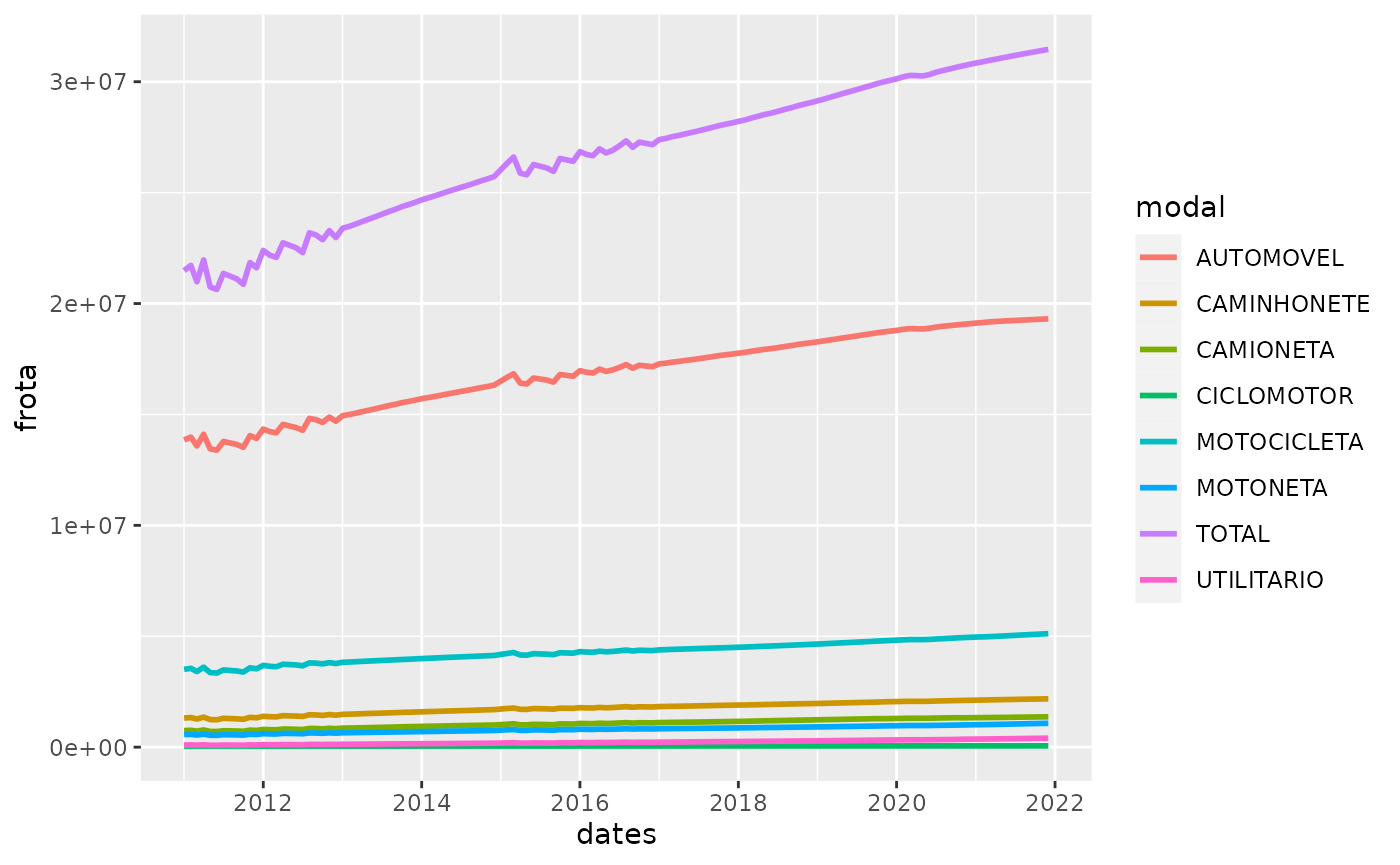
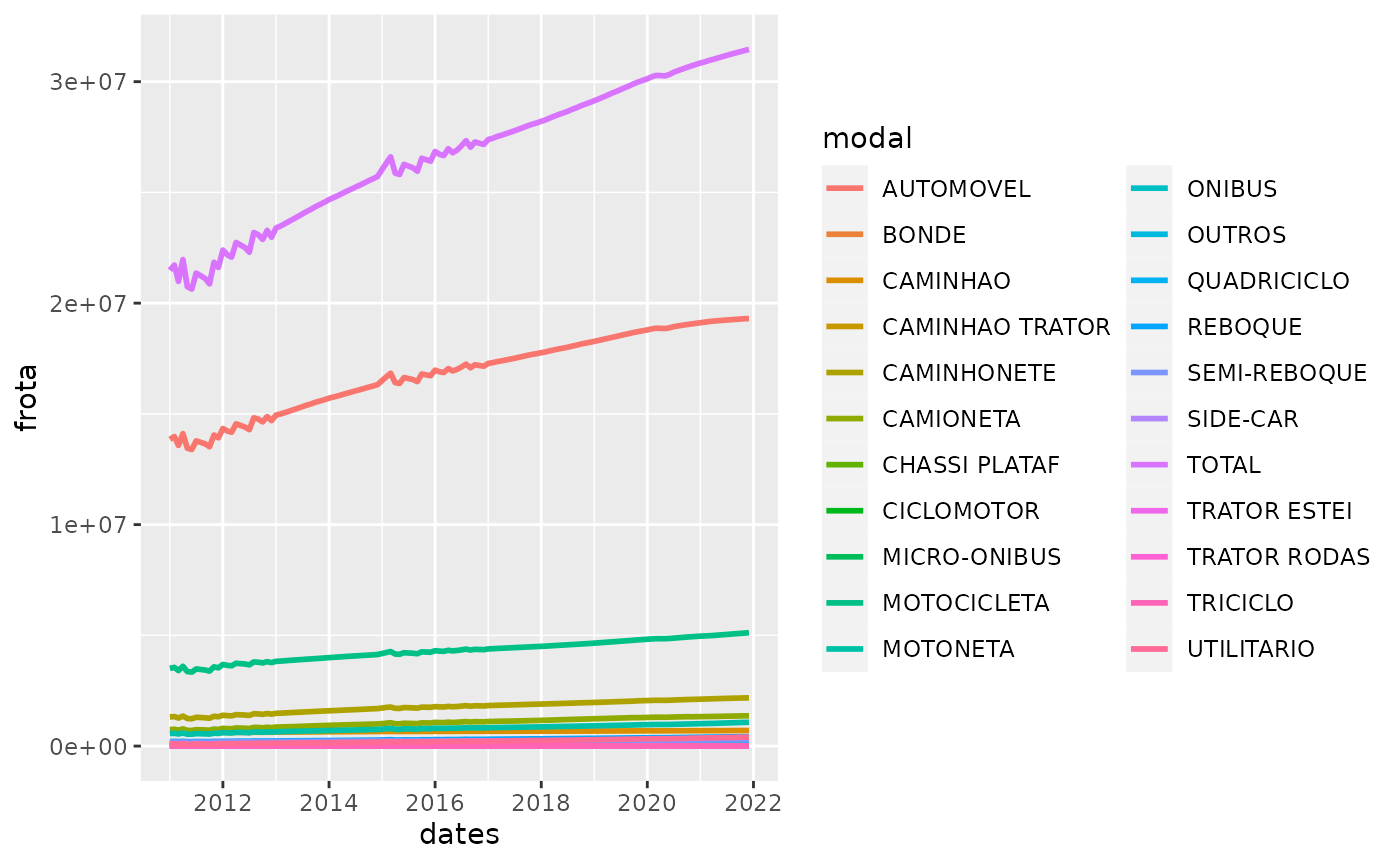
Deploying to gh-pages from @ jotasaraiva/fleetbr@af62b1231924bef9624a7627e6caa42e5f8dad41 🚀

diff --git a/index.html b/index.html
@@ -5,10 +5,9 @@
 <meta charset="utf-8">
 <meta http-equiv="X-UA-Compatible" content="IE=edge">
 <meta name="viewport" content="width=device-width, initial-scale=1, shrink-to-fit=no">
-<meta name="description" content="The package is long format dataset from the road fleet
-    data provided by the open data sources of the Brazilian Ministry of
-    Transport.">
-<title>Brazilian Road Fleet Dataset • fleetbr</title>
+<meta name="description" content="The package includes a dataset from the road vehicle data provided 
+    by the Brazilian Ministry of Transport.">
+<title>Brazilian Vehicle Fleet Dataset • fleetbr</title>
 <!-- favicons --><link rel="icon" type="image/png" sizes="16x16" href="favicon-16x16.png">
 <link rel="icon" type="image/png" sizes="32x32" href="favicon-32x32.png">
 <link rel="apple-touch-icon" type="image/png" sizes="180x180" href="apple-touch-icon.png">
@@ -19,10 +18,9 @@
 <link href="deps/bootstrap-5.3.1/bootstrap.min.css" rel="stylesheet">
 <script src="deps/bootstrap-5.3.1/bootstrap.bundle.min.js"></script><!-- Font Awesome icons --><link rel="stylesheet" href="https://cdnjs.cloudflare.com/ajax/libs/font-awesome/5.12.1/css/all.min.css" integrity="sha256-mmgLkCYLUQbXn0B1SRqzHar6dCnv9oZFPEC1g1cwlkk=" crossorigin="anonymous">
 <link rel="stylesheet" href="https://cdnjs.cloudflare.com/ajax/libs/font-awesome/5.12.1/css/v4-shims.min.css" integrity="sha256-wZjR52fzng1pJHwx4aV2AO3yyTOXrcDW7jBpJtTwVxw=" crossorigin="anonymous">
-<!-- bootstrap-toc --><script src="https://cdn.jsdelivr.net/gh/afeld/bootstrap-toc@v1.0.1/dist/bootstrap-toc.min.js" integrity="sha256-4veVQbu7//Lk5TSmc7YV48MxtMy98e26cf5MrgZYnwo=" crossorigin="anonymous"></script><!-- headroom.js --><script src="https://cdnjs.cloudflare.com/ajax/libs/headroom/0.11.0/headroom.min.js" integrity="sha256-AsUX4SJE1+yuDu5+mAVzJbuYNPHj/WroHuZ8Ir/CkE0=" crossorigin="anonymous"></script><script src="https://cdnjs.cloudflare.com/ajax/libs/headroom/0.11.0/jQuery.headroom.min.js" integrity="sha256-ZX/yNShbjqsohH1k95liqY9Gd8uOiE1S4vZc+9KQ1K4=" crossorigin="anonymous"></script><!-- clipboard.js --><script src="https://cdnjs.cloudflare.com/ajax/libs/clipboard.js/2.0.6/clipboard.min.js" integrity="sha256-inc5kl9MA1hkeYUt+EC3BhlIgyp/2jDIyBLS6k3UxPI=" crossorigin="anonymous"></script><!-- search --><script src="https://cdnjs.cloudflare.com/ajax/libs/fuse.js/6.4.6/fuse.js" integrity="sha512-zv6Ywkjyktsohkbp9bb45V6tEMoWhzFzXis+LrMehmJZZSys19Yxf1dopHx7WzIKxr5tK2dVcYmaCk2uqdjF4A==" crossorigin="anonymous"></script><script src="https://cdnjs.cloudflare.com/ajax/libs/autocomplete.js/0.38.0/autocomplete.jquery.min.js" integrity="sha512-GU9ayf+66Xx2TmpxqJpliWbT5PiGYxpaG8rfnBEk1LL8l1KGkRShhngwdXK1UgqhAzWpZHSiYPc09/NwDQIGyg==" crossorigin="anonymous"></script><script src="https://cdnjs.cloudflare.com/ajax/libs/mark.js/8.11.1/mark.min.js" integrity="sha512-5CYOlHXGh6QpOFA/TeTylKLWfB3ftPsde7AnmhuitiTX4K5SqCLBeKro6sPS8ilsz1Q4NRx3v8Ko2IBiszzdww==" crossorigin="anonymous"></script><!-- pkgdown --><script src="pkgdown.js"></script><meta property="og:title" content="Brazilian Road Fleet Dataset">
-<meta property="og:description" content="The package is long format dataset from the road fleet
-    data provided by the open data sources of the Brazilian Ministry of
-    Transport.">
+<!-- bootstrap-toc --><script src="https://cdn.jsdelivr.net/gh/afeld/bootstrap-toc@v1.0.1/dist/bootstrap-toc.min.js" integrity="sha256-4veVQbu7//Lk5TSmc7YV48MxtMy98e26cf5MrgZYnwo=" crossorigin="anonymous"></script><!-- headroom.js --><script src="https://cdnjs.cloudflare.com/ajax/libs/headroom/0.11.0/headroom.min.js" integrity="sha256-AsUX4SJE1+yuDu5+mAVzJbuYNPHj/WroHuZ8Ir/CkE0=" crossorigin="anonymous"></script><script src="https://cdnjs.cloudflare.com/ajax/libs/headroom/0.11.0/jQuery.headroom.min.js" integrity="sha256-ZX/yNShbjqsohH1k95liqY9Gd8uOiE1S4vZc+9KQ1K4=" crossorigin="anonymous"></script><!-- clipboard.js --><script src="https://cdnjs.cloudflare.com/ajax/libs/clipboard.js/2.0.6/clipboard.min.js" integrity="sha256-inc5kl9MA1hkeYUt+EC3BhlIgyp/2jDIyBLS6k3UxPI=" crossorigin="anonymous"></script><!-- search --><script src="https://cdnjs.cloudflare.com/ajax/libs/fuse.js/6.4.6/fuse.js" integrity="sha512-zv6Ywkjyktsohkbp9bb45V6tEMoWhzFzXis+LrMehmJZZSys19Yxf1dopHx7WzIKxr5tK2dVcYmaCk2uqdjF4A==" crossorigin="anonymous"></script><script src="https://cdnjs.cloudflare.com/ajax/libs/autocomplete.js/0.38.0/autocomplete.jquery.min.js" integrity="sha512-GU9ayf+66Xx2TmpxqJpliWbT5PiGYxpaG8rfnBEk1LL8l1KGkRShhngwdXK1UgqhAzWpZHSiYPc09/NwDQIGyg==" crossorigin="anonymous"></script><script src="https://cdnjs.cloudflare.com/ajax/libs/mark.js/8.11.1/mark.min.js" integrity="sha512-5CYOlHXGh6QpOFA/TeTylKLWfB3ftPsde7AnmhuitiTX4K5SqCLBeKro6sPS8ilsz1Q4NRx3v8Ko2IBiszzdww==" crossorigin="anonymous"></script><!-- pkgdown --><script src="pkgdown.js"></script><meta property="og:title" content="Brazilian Vehicle Fleet Dataset">
+<meta property="og:description" content="The package includes a dataset from the road vehicle data provided 
+    by the Brazilian Ministry of Transport.">
 <meta property="og:image" content="https://jotasaraiva.github.io/fleetbr/logo.png">
 <!-- mathjax --><script src="https://cdnjs.cloudflare.com/ajax/libs/mathjax/2.7.5/MathJax.js" integrity="sha256-nvJJv9wWKEm88qvoQl9ekL2J+k/RWIsaSScxxlsrv8k=" crossorigin="anonymous"></script><script src="https://cdnjs.cloudflare.com/ajax/libs/mathjax/2.7.5/config/TeX-AMS-MML_HTMLorMML.js" integrity="sha256-84DKXVJXs0/F8OTMzX4UR909+jtl4G7SPypPavF+GfA=" crossorigin="anonymous"></script><!--[if lt IE 9]>
 <script src="https://oss.maxcdn.com/html5shiv/3.7.3/html5shiv.min.js"></script>
@@ -37,7 +35,7 @@
     
     <a class="navbar-brand me-2" href="index.html">fleetbr</a>
 
-    <small class="nav-text text-muted me-auto" data-bs-toggle="tooltip" data-bs-placement="bottom" title="">0.1.1</small>
+    <small class="nav-text text-muted me-auto" data-bs-toggle="tooltip" data-bs-placement="bottom" title="">0.1.2</small>
 
     
     <button class="navbar-toggler" type="button" data-bs-toggle="collapse" data-bs-target="#navbar" aria-controls="navbar" aria-expanded="false" aria-label="Toggle navigation">

diff --git a/authors.html b/authors.html
@@ -10,7 +10,7 @@
     
     <a class="navbar-brand me-2" href="index.html">fleetbr</a>
 
-    <small class="nav-text text-muted me-auto" data-bs-toggle="tooltip" data-bs-placement="bottom" title="">0.1.1</small>
+    <small class="nav-text text-muted me-auto" data-bs-toggle="tooltip" data-bs-placement="bottom" title="">0.1.2</small>
 
     
     <button class="navbar-toggler" type="button" data-bs-toggle="collapse" data-bs-target="#navbar" aria-controls="navbar" aria-expanded="false" aria-label="Toggle navigation">
@@ -67,15 +67,15 @@
       <h2 id="citation">Citation</h2>
       <p><small class="dont-index">Source: <a href="https://github.com/jotasaraiva/fleetbr/blob/HEAD/DESCRIPTION" class="external-link"><code>DESCRIPTION</code></a></small></p>
 
-      <p>Saraiva JPM, Santos PAB (2023).
-<em>fleetbr: Brazilian Road Fleet Dataset</em>.
-R package version 0.1.1, https://github.com/jotasaraiva/fleetbr, <a href="https://jotasaraiva.github.io/fleetbr/">https://jotasaraiva.github.io/fleetbr/</a>. 
+      <p>Saraiva JPM, Santos PAB (2024).
+<em>fleetbr: Brazilian Vehicle Fleet Dataset</em>.
+R package version 0.1.2, https://github.com/jotasaraiva/fleetbr, <a href="https://jotasaraiva.github.io/fleetbr/">https://jotasaraiva.github.io/fleetbr/</a>. 
 </p>
       <pre>@Manual{,
-  title = {fleetbr: Brazilian Road Fleet Dataset},
+  title = {fleetbr: Brazilian Vehicle Fleet Dataset},
   author = {João Pedro Melani Saraiva and Pedro Augusto Borges Santos},
-  year = {2023},
-  note = {R package version 0.1.1, https://github.com/jotasaraiva/fleetbr},
+  year = {2024},
+  note = {R package version 0.1.2, https://github.com/jotasaraiva/fleetbr},
   url = {https://jotasaraiva.github.io/fleetbr/},
 }</pre>
     </div>

diff --git a/news/index.html b/news/index.html
@@ -10,7 +10,7 @@
     
     <a class="navbar-brand me-2" href="../index.html">fleetbr</a>
 
-    <small class="nav-text text-muted me-auto" data-bs-toggle="tooltip" data-bs-placement="bottom" title="">0.1.1</small>
+    <small class="nav-text text-muted me-auto" data-bs-toggle="tooltip" data-bs-placement="bottom" title="">0.1.2</small>
 
     
     <button class="navbar-toggler" type="button" data-bs-toggle="collapse" data-bs-target="#navbar" aria-controls="navbar" aria-expanded="false" aria-label="Toggle navigation">
@@ -47,6 +47,12 @@
       <small>Source: <a href="https://github.com/jotasaraiva/fleetbr/blob/HEAD/NEWS.md" class="external-link"><code>NEWS.md</code></a></small>
     </div>
 
+    <div class="section level2">
+<h2 class="pkg-version" data-toc-text="0.1.2" id="fleetbr-012">fleetbr 0.1.2<a class="anchor" aria-label="anchor" href="#fleetbr-012"></a></h2>
+<ul><li><p>Fixes DESCRIPTION (<a href="https://github.com/jotasaraiva/fleetbr/issues/7" class="external-link">#7</a>)</p></li>
+<li><p>Fix <code>data-raw/</code> (<a href="https://github.com/jotasaraiva/fleetbr/issues/6" class="external-link">#6</a>)</p></li>
+<li><p>Adds all types of vehicles (<a href="https://github.com/jotasaraiva/fleetbr/issues/4" class="external-link">#4</a>)</p></li>
+</ul></div>
     <div class="section level2">
 <h2 class="pkg-version" data-toc-text="0.1.1" id="fleetbr-011">fleetbr 0.1.1<a class="anchor" aria-label="anchor" href="#fleetbr-011"></a></h2>
 <ul><li><p>Fixes README (<a href="https://github.com/jotasaraiva/fleetbr/issues/2" class="external-link">#2</a>)</p></li>

diff --git a/reference/fleetbr.html b/reference/fleetbr.html
@@ -14,7 +14,7 @@ are encoded to Brazilian Portuguese."><meta property="og:image" content="https:/
     
     <a class="navbar-brand me-2" href="../index.html">fleetbr</a>
 
-    <small class="nav-text text-muted me-auto" data-bs-toggle="tooltip" data-bs-placement="bottom" title="">0.1.1</small>
+    <small class="nav-text text-muted me-auto" data-bs-toggle="tooltip" data-bs-placement="bottom" title="">0.1.2</small>
 
     
     <button class="navbar-toggler" type="button" data-bs-toggle="collapse" data-bs-target="#navbar" aria-controls="navbar" aria-expanded="false" aria-label="Toggle navigation">
@@ -70,7 +70,7 @@ are encoded to Brazilian Portuguese.</p>
 <h3 id="fleetbr"><code>fleetbr</code><a class="anchor" aria-label="anchor" href="#fleetbr"></a></h3>
 
 
-<p>A <code>tibble</code> data frame with 28,512 and 5 columns:</p><dl><dt>uf</dt>
+<p>A <code>tibble</code> data frame with 78,408 and 5 columns:</p><dl><dt>uf</dt>
 <dd><p>Federative Unit - Brazilian States Acronyms</p></dd>
 
 <dt>mes, ano</dt>

diff --git a/404.html b/404.html
@@ -31,7 +31,7 @@
     
     <a class="navbar-brand me-2" href="https://jotasaraiva.github.io/fleetbr/index.html">fleetbr</a>
 
-    <small class="nav-text text-muted me-auto" data-bs-toggle="tooltip" data-bs-placement="bottom" title="">0.1.1</small>
+    <small class="nav-text text-muted me-auto" data-bs-toggle="tooltip" data-bs-placement="bottom" title="">0.1.2</small>
 
     
     <button class="navbar-toggler" type="button" data-bs-toggle="collapse" data-bs-target="#navbar" aria-controls="navbar" aria-expanded="false" aria-label="Toggle navigation">

diff --git a/articles/fleetbr.html b/articles/fleetbr.html
@@ -33,7 +33,7 @@
     
     <a class="navbar-brand me-2" href="../index.html">fleetbr</a>
 
-    <small class="nav-text text-muted me-auto" data-bs-toggle="tooltip" data-bs-placement="bottom" title="">0.1.1</small>
+    <small class="nav-text text-muted me-auto" data-bs-toggle="tooltip" data-bs-placement="bottom" title="">0.1.2</small>
 
     
     <button class="navbar-toggler" type="button" data-bs-toggle="collapse" data-bs-target="#navbar" aria-controls="navbar" aria-expanded="false" aria-label="Toggle navigation">

diff --git a/articles/index.html b/articles/index.html
@@ -10,7 +10,7 @@
     
     <a class="navbar-brand me-2" href="../index.html">fleetbr</a>
 
-    <small class="nav-text text-muted me-auto" data-bs-toggle="tooltip" data-bs-placement="bottom" title="">0.1.1</small>
+    <small class="nav-text text-muted me-auto" data-bs-toggle="tooltip" data-bs-placement="bottom" title="">0.1.2</small>
 
     
     <button class="navbar-toggler" type="button" data-bs-toggle="collapse" data-bs-target="#navbar" aria-controls="navbar" aria-expanded="false" aria-label="Toggle navigation">

diff --git a/reference/index.html b/reference/index.html
@@ -10,7 +10,7 @@
     
     <a class="navbar-brand me-2" href="../index.html">fleetbr</a>
 
-    <small class="nav-text text-muted me-auto" data-bs-toggle="tooltip" data-bs-placement="bottom" title="">0.1.1</small>
+    <small class="nav-text text-muted me-auto" data-bs-toggle="tooltip" data-bs-placement="bottom" title="">0.1.2</small>
 
     
     <button class="navbar-toggler" type="button" data-bs-toggle="collapse" data-bs-target="#navbar" aria-controls="navbar" aria-expanded="false" aria-label="Toggle navigation">

diff --git a/LICENSE-text.html b/LICENSE-text.html
@@ -10,7 +10,7 @@
     
     <a class="navbar-brand me-2" href="index.html">fleetbr</a>
 
-    <small class="nav-text text-muted me-auto" data-bs-toggle="tooltip" data-bs-placement="bottom" title="">0.1.1</small>
+    <small class="nav-text text-muted me-auto" data-bs-toggle="tooltip" data-bs-placement="bottom" title="">0.1.2</small>
 
     
     <button class="navbar-toggler" type="button" data-bs-toggle="collapse" data-bs-target="#navbar" aria-controls="navbar" aria-expanded="false" aria-label="Toggle navigation">

diff --git a/LICENSE.html b/LICENSE.html
@@ -10,7 +10,7 @@
     
     <a class="navbar-brand me-2" href="index.html">fleetbr</a>
 
-    <small class="nav-text text-muted me-auto" data-bs-toggle="tooltip" data-bs-placement="bottom" title="">0.1.1</small>
+    <small class="nav-text text-muted me-auto" data-bs-toggle="tooltip" data-bs-placement="bottom" title="">0.1.2</small>
 
     
     <button class="navbar-toggler" type="button" data-bs-toggle="collapse" data-bs-target="#navbar" aria-controls="navbar" aria-expanded="false" aria-label="Toggle navigation">
